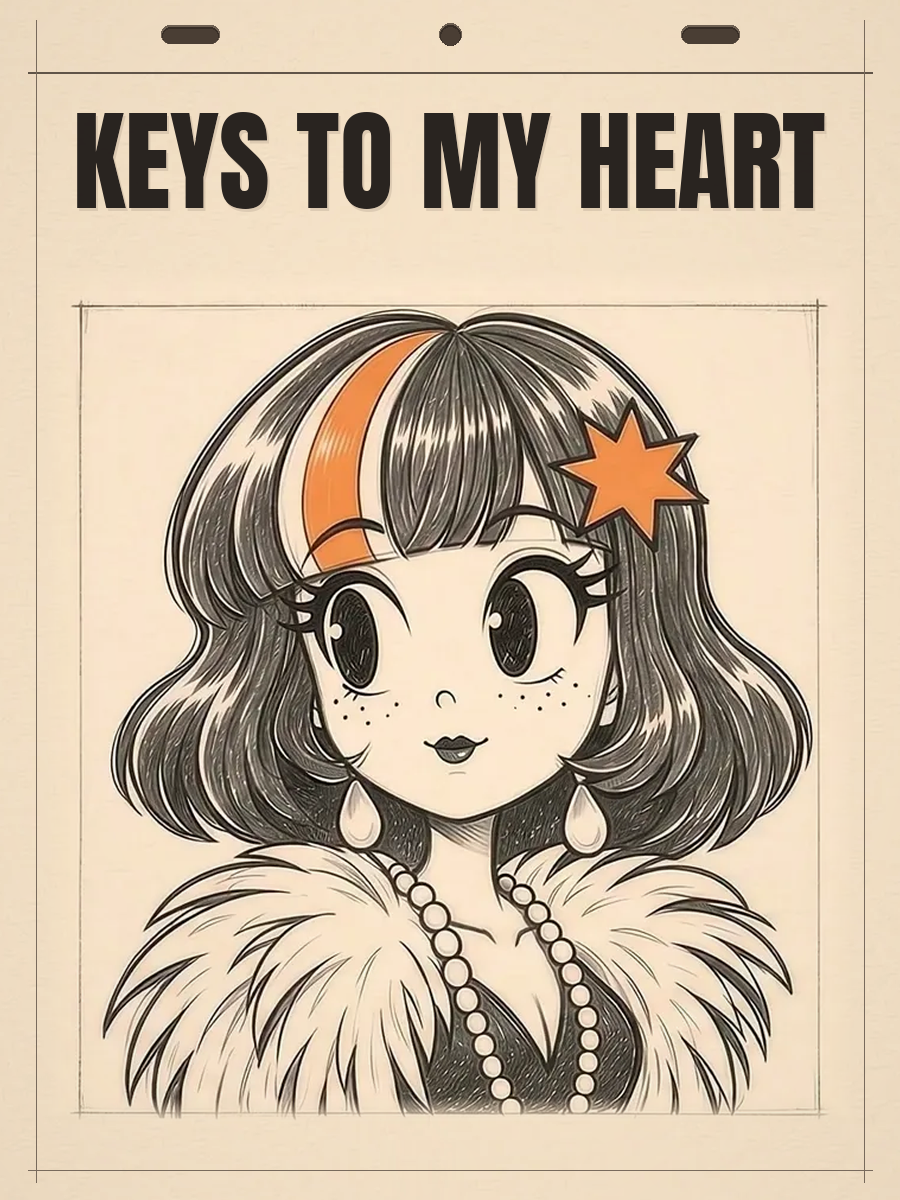
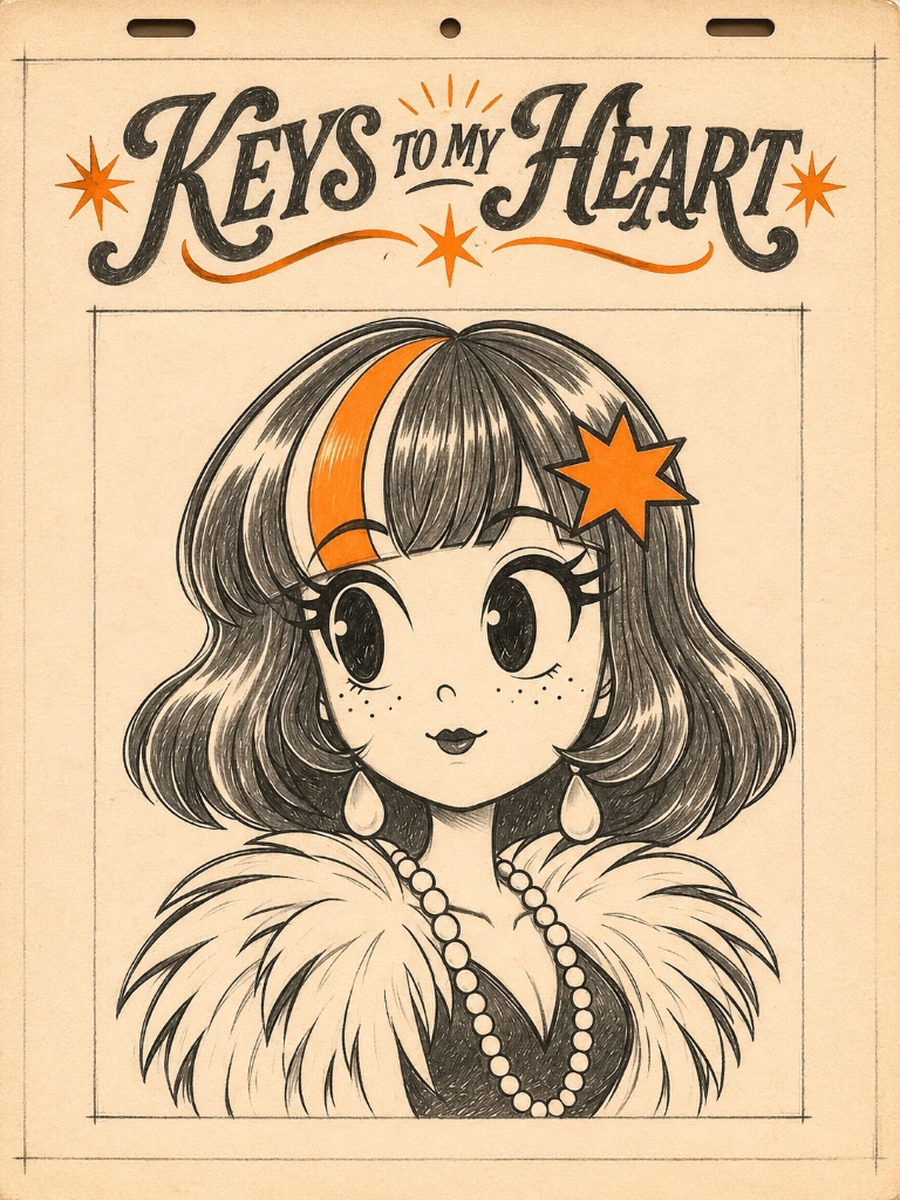
feat(v4-gallery): install custom illustrated Flow posters 07-09 + add 10 BRRT case study

diff --git a/lib/gallery/projects.ts b/lib/gallery/projects.ts
@@ -514,6 +514,53 @@ export const GALLERY_PROJECTS: GalleryProject[] = [
       },
     ],
   },
+  {
+    slug: "brrt-receipts",
+    num: "10",
+    title: "BRRT",
+    subtitle: {
+      en: "THERMAL RECEIPT BRAND EDITOR · 58 & 80 MM",
+      es: "EDITOR DE TICKETS TÉRMICOS · 58 Y 80 MM",
+    },
+    year: "2026",
+    role: {
+      en: "Product Design · Thermal Dithering · Mascot",
+      es: "Diseño de Producto · Trama Térmica · Mascota",
+    },
+    stack: "Thermal 1-Bit Engine · 58/80mm Roll Sim · Live Editor",
+    accentHex: "#1547E5",
+    accentTextHex: "#FAF7F2",
+    posterSrc: "/images/gallery/posters/poster-10.png",
+    summary: {
+      en: "Tu ticket. Tu sello. A tactile live receipt designer that stamps any shop logo, custom artwork, and message onto 58mm and 80mm thermal rolls with crisp B&W dithering.",
+      es: "Tu ticket. Tu sello. Un editor táctil para imprimir el logo, ilustraciones y mensajes de tu local sobre rollos térmicos de 58 y 80 mm en tiempo real.",
+    },
+    storyParagraphs: {
+      en: [
+        "Built so indie cafés, shops, and bakeries give their paper receipts the exact same personality as their storefront — swap headers, drop artwork behind the receipt text with tunable contrast, and preview live B&W thermal ink output before printing.",
+      ],
+      es: [
+        "Pensado para que cafés y locales independientes pongan su sello personal hasta en el recibo: sube tu logotipo o ilustración de fondo con intensidad ajustable, reordena bloques tocando el ticket y compara rollos de 58 y 80 mm en vivo.",
+      ],
+    },
+    liveHref: "https://taller-de-ticket.juanintendo.chatgpt.site/producto/",
+    liveExternal: true,
+    liveLabel: {
+      en: "OPEN BRRT EDITOR ↗",
+      es: "PROBAR EDITOR BRRT ↗",
+    },
+    isInteractiveToy: false,
+    galleryFrames: [
+      {
+        src: "/images/gallery/cases/brrt-mascot.png",
+        caption: { en: "BRRT Thermal Printer Mascot", es: "Mascota Impresora Térmica BRRT" },
+      },
+      {
+        src: "/images/gallery/cases/brrt-ticket.webp",
+        caption: { en: "80mm 1-Bit Thermal Receipt Preview", es: "Vista Previa Térmica 80 mm en B&N" },
+      },
+    ],
+  },
 ];
 
 export function getGalleryProject(slug: string): GalleryProject | undefined {

diff --git a/docs/CLAUDE-HANDOFF-V4-GALLERY.md b/docs/CLAUDE-HANDOFF-V4-GALLERY.md
@@ -12,9 +12,9 @@
    - Top navigation pairs `JUANIMAL DESIGNS` with `ABOUT` (using Justine's lightning zig-zag underline `<path d="M0 1H155.026L144.122 5H311" />`), `MERCH`, live `EN / ES` language switch, and Web Audio mute pill.
 
 2. **WebGL Infinite Poster Carousel Home (`/`, `/es` — `PosterCarousel3D.tsx`, `PosterGalleryHome.tsx`):**
-   - **9 `900×1200` (`3:4`) Gallery Posters (`public/images/gallery/posters/poster-01..09.png`):**
-     `01 Ramses`, `02 Voyager 1`, `03 NO SKU™`, `04 Vectra Twin // AI`, `05 Frame by Agents`, `06 Fuel or Fool` (Jester Cobra Ref 1 edition), `07 Molotov Love` (Desorden Público 3-skeleton vintage Caracas 1997 concert gig poster featuring Horacio + Trombonist + Bassist), `08 Keys to My Heart` (starring Claudia — textless animation rag-paper portrait), and `09 Club of the Dead` (Rockabilly Rhythm RPG key-art poster with Synthia, Roxy Ratrod, Nikola Stardust & Howlin' Wolfgang + custom 3D logo).
-   - *(Note: `illusion-of-agency` was consolidated with `keys-to-my-heart` since both belong to the Claudia film.)*
+   - **10 `900×1200` (`3:4`) Gallery Posters (`public/images/gallery/posters/poster-01..10.png`):**
+     `01 Ramses`, `02 Voyager 1`, `03 NO SKU™`, `04 Vectra Twin // AI`, `05 Frame by Agents`, `06 Fuel or Fool` (Jester Cobra Ref 1 edition), `07 Molotov Love` (custom Vince Ray-inspired black/crimson/cream 3-color gig illustration with Horacio + brass/sax skeletons), `08 Keys to My Heart` (starring Claudia — textless animation sheet + custom 1920s hand-lettered logo), `09 Club of the Dead` (custom nocturnal Kustom Kulture key-art starring Synthia + hearse hot rod), and `10 BRRT` (tactile thermal receipt printer riso poster).
+   - *(Note: `illusion-of-agency` was consolidated with `keys-to-my-heart`, and Arcadio Labs was held back by user request.)*
    - **Custom GLSL Crumpled Paper Cloth Shader (`POSTER_VERT`, `POSTER_FRAG`):**
      - Tangent-space crumpled-paper normal map (`/images/gallery/paper-normals.png`) + velocity-driven S-wave paper bending (`uVelocity`), pointer 3D tilt/lift, specular highlight along creases, seamless modulo horizontal wrapping, wheel/drag/touch/arrow inertia, and smooth color-curtain transition into `/poster-work/[slug]`.
    - Includes a clean bottom archival dock + **Interactive Toys** quick launcher linking directly to all playable WebGL prototypes (`/work/ramses-mania`, `/work/voyager-kids`, `/work/no-sku`, `/work/vectra-twin`) and the 4-world Dragon `/about` experience.
